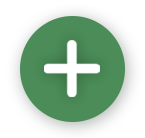
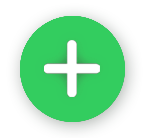
Major design updates, cleaned up a lot of view and creates, hw, chores

diff --git a/www/templates/settings/newUser.html b/www/templates/settings/newUser.html
@@ -1,44 +1,22 @@
 <ion-modal-view>
   <ion-content>
     <ion-header-bar>
-      <h1 class="title">New User</h1>
+      <h1 class="title">User Invite</h1>
       <div class="button button-clear" ng-click="modal.hide()"><i class="icon ion-close"></i></div>
     </ion-header-bar>
-    <div class="list">
-      <div class="item item-divider">
-        Name
-      </div>
+    <div class="list modal-header">
       <ion-item>
         <label class="item item-input">
-          <textarea id="new-user-name" placeholder="description"></textarea>
+          <input type="email" placeholder="John Smith">
         </label>
       </ion-item>
-      <div class="item item-divider">
-        Select Job
-      </div>
-      <ion-item class="item-input item-select">
-        <div class="input-label"></div>
-        <select>
-          <option ng-repeat="job in chores.jobs">{{job}}</option>
-        </select>
+      <ion-item>
+        <label class="item item-input">
+          <input type="email" placeholder="john.smith@email.com">
+        </label>
       </ion-item>
-      <div class="item item-divider">
-        Select Room
-      </div>
-      <ion-item class="item-input item-select">
-        <div class="input-label"></div>
-        <select>
-          <option ng-repeat="room in chores.rooms">{{room}}</option>
-        </select>
-      </ion-item>
-      <div class="item item-divider">
-        Schedule
-      </div>
-      <div class="button-bar">
-        <a ng-repeat="day in chores.days" class="button button-primary" ng-model="buttonDay" ng-click="buttonDay.clicked=!buttonDay.clicked" ng-class="buttonDay.clicked?'button-balanced':'button-stable'">{{day}}</a>
-      </div>
-      </br>
-      <button class="button button-full button-balanced" ng-click="closeModal()">Save User</button>
+
+      <button class="button button-full button-balanced" ng-click="closeModal()">Send Invite!</button>
     </div>
   </ion-content>
 </ion-modal-view>

diff --git a/www/templates/homework/index.html b/www/templates/homework/index.html
@@ -1,19 +1,27 @@
 <ion-view view-title="Homework">
   <ion-content>
-    <div ng-repeat="child in homework.children">
-      <a class="homename" ui-sref="tab.homework.assignment">
-        <ion-item class="item-avatar item-icon-right" type="item-text-wrap" ng-click="toggleGroup(group)" ng-class="{active: isGroupShown(group)}">
-          <img ng-src="img/avatar-icons/lion.png">
-          <h2 class="homename">{{child}}</h2>
-          <i class="icon ion-ios-arrow-right" ng-class="isGroupShown(group) ? 'ion-chevron-up' : 'ion-chevron-down'"></i>
-        </ion-item>
-      </a>
+    <div ng-controller="accordCtrl">
+      <ion-list>
+        <div ng-repeat="group in groups">
+          <ion-item class="item-avatar item-icon-right" type="item-text-wrap" ng-click="toggleGroup(group)" ng-class="{active: isGroupShown(group)}">
+            <img ng-src="img/avatar-icons/lion.png">
+            <p class="homename">{{group.name}}</p>
+            <i class="icon icon-accessory" ng-class="isGroupShown(group) ? 'ion-chevron-up' : 'ion-chevron-down'"></i>
+          </ion-item>
+          <ion-item class="item-accordion" ng-repeat="item in group.items" ng-show="isGroupShown(group)">
+            <a ui-sref="tab.homework.childView">
+              <p class="homename">{{item}}</p>
+              <i class="icon icon-accessory ion-chevron-right"></i>
+            </a>
+          </ion-item>
+        </div>
+      </ion-list>
     </div>
   </ion-content>
-  <div class="float-button" ng-controller="CreateHomeworkCtrl">
+  <div class="float-button" ng-controller="CreateChoresCtrl">
     <span class="height-fix">
         <a class="content" ng-click="openModal()">
-          <i class="ion-plus-circled custom-icon"></i>
+          <i class="ion-plus-circled custom-icon"> </i>
         </a>
       </span>
   </div>

diff --git a/www/css/style.css b/www/css/style.css
@@ -12,8 +12,8 @@ a{
   font-size: 70px;
   background: $warning;
   position: fixed;
-  bottom: 60px; /* Adjust to where you want it */
-  right: 25px; /* Adjust to where you want it */
+  bottom: 10vh; /* Adjust to where you want it */
+  right: 5vw; /* Adjust to where you want it */
   z-index: 9999;
 }
 
@@ -37,7 +37,7 @@ a{
 }
 
 .custom-icon {
-  color: #6cc484;
+  color: #33cd5f;
 }
 
 /* button animation*/
@@ -139,13 +139,23 @@ p.chorepg {
 
 .item-icon-right .jv-card-archive{
   font-size:30px;
-  right:-3px;
+  right:0px;
   top:0px;
 }
 .item-icon-right .jv-card-delete{
   font-size:30px;
   right:40px;
   top:0px;
+}
+.item-icon-right .jv-card-archive:hover{
+  font-size:35px;
+  cursor:pointer;
+  color:#33cd5f;
+}
+.item-icon-right .jv-card-delete:hover{
+  font-size:35px;
+  cursor:pointer;
+  color:#33cd5f;
 }
 
 .clean-link-icon{
@@ -159,4 +169,39 @@ p.chorepg {
 
 .showHide{
   display:none;
+}
+
+.circle{
+  border-radius:50%;
+	width:50px;
+	height:50px;
+  text-align:center;
+  line-height:1em;
+  padding-top:10px;
+  float:left;
+  margin-right:20px;
+}
+
+.circle>p{
+  color:#fff;
+}
+
+h2.hw-assign{
+  margin-top:1.25%;
+}
+
+.past{
+  background-color: #EE4D39;
+}
+
+.present{
+  background-color: #33cd5f;
+}
+
+.future{
+  background-color: #F0B840;
+}
+
+.modal-header{
+  padding-top:5vh;
 }

diff --git a/www/js/app.js b/www/js/app.js
@@ -100,11 +100,20 @@ angular.module('juvo', [
   })
   .state('tab.homework.view', {
     url: '/view',
+    // resolve: {
+    //   selectedTask: function($stateParams, tasks, users) {
+    //     return user
+    //       .getCurrentUser()
+    //       .then(function(user) {
+    //         return tasks.getTask(user.id, $stateParams.id)
+    //       })
+    //   },
+    // },
     templateUrl: 'templates/homework/view.html',
   })
-  .state('tab.homework.assignment', {
-    url: '/assignment',
-    templateUrl: 'templates/homework/assignment.html',
+  .state('tab.homework.childView', {
+    url: '/childView',
+    templateUrl: 'templates/homework/childView.html',
     controller: 'HomeworkCtrl'
   })
 
@@ -130,16 +139,7 @@ angular.module('juvo', [
     controller: 'TodosCtrl'
   })
   .state('tab.todos.view', {
-    url: '/:todoId',
-    resolve: {
-      selectedTask: function($stateParams, tasks, users) {
-        return user
-          .getCurrentUser()
-          .then(function(user) {
-            return tasks.getTask(user.id, $statParams.id)
-          })
-      },
-    },
+    url: '/view',
     templateUrl: 'templates/todos/view.html',
     controller: 'TodosCtrl'
   })

diff --git a/www/templates/settings/index.html b/www/templates/settings/index.html
@@ -9,14 +9,14 @@
           </button>
         </div>
       </a>
-      <a ui-sref="tab.settings.personalSettings">
+      <!-- <a ui-sref="tab.settings.personalSettings">
         <div class="item item-button-right">
           Switch Account
           <button class="button button-clear">
             <i class="icon ion-chevron-right"></i>
           </button>
         </div>
-      </a>
+      </a> -->
       <a ui-sref="tab.settings.personalSettings">
         <div class="item item-button-right">
           Personal Settings
@@ -33,7 +33,7 @@
           </button>
         </div>
       </a>
-      <a ui-sref="tab.settings.termsAndCond">
+      <!-- <a ui-sref="tab.settings.termsAndCond">
         <div class="item item-button-right">
           Terms and Conditions
           <button class="button button-clear">
@@ -48,7 +48,7 @@
             <i class="icon ion-chevron-right"></i>
           </button>
         </div>
-      </a>
+      </a> -->
     </ion-list>
   </ion-content>
   <ion-footer-bar style="padding-bottom:15%;" ng-controller="LogoutCtrl">

diff --git a/www/templates/homework/create.html b/www/templates/homework/create.html
@@ -10,13 +10,10 @@
       </div>
         <ion-checkbox ng-repeat="child in homework.children" class="checkbox-balanced">{{child}}</ion-checkbox>
       <div class="item item-divider">
-        Select Subject
+        Assignment Title
       </div>
-      <ion-item class="item-input item-select">
-        <div class="input-label"></div>
-        <select>
-            <option ng-repeat="subject in homework.subject">{{subject}}</option>
-        </select>
+      <ion-item class="item-input">
+        <input type="text" placeholder="Math Ch. 12" />
       </ion-item>
       <div class="item item-divider">
         Due Date
@@ -29,9 +26,8 @@
         Description
       </div>
       <ion-item>
-        <label class="item item-input">
-          <textarea id="assignment-desc" placeholder="description">
-          </textarea>
+        <label class="item-input">
+          <textarea placeholder="Optional"></textarea>
         </label>
       </ion-item>
       <button class="button button-full button-balanced" ng-click="closeModal()">Create Assignment</button>

diff --git a/www/templates/homework/childView.html b/www/templates/homework/childView.html
@@ -1,4 +1,4 @@
-<ion-view name="homeworkAssignment" view-title="Haley's Homework">
+<ion-view name="childsHomework" view-title="Haley's Homework">
   <ion-content>
     <div>
       <ion-list>
@@ -8,8 +8,10 @@
               <i class="icon icon-accessory" ng-class="isGroupShown(group) ? 'ion-chevron-up' : 'ion-chevron-down'"></i>
           </ion-item>
           <a ui-sref="tab.homework.view"  ng-repeat="assignment in homework.group">
-            <ion-item  style="padding-left:40px;" class="item-accordion" ng-show="isGroupShown(group)">
-                  {{assignment}}
+            <ion-item style="padding-left:40px;" class="item-avatar item-accordion item-icon-right" ng-show="isGroupShown(group)">
+              <div class="circle past"><p>Mar</p><p>11</p></div>
+              <h2 class="hw-assign">{{assignment}}</h2>
+              <i class="icon icon-accessory ion-chevron-right"></i>
             </ion-item>
           </a>
         </div>

diff --git a/www/templates/homework/view.html b/www/templates/homework/view.html
@@ -13,15 +13,7 @@
         <h1 class="chorepg">Details:</h1>
         <p class="chorepg">History of Historic Things page 100, Reflection Quiz section 4, questions 3-9</p>
       </ion-item>
-      <li class="item item-toggle">
-        Finished
-        <label class="toggle toggle-calm">
-          <input type="checkbox">
-          <div class="track">
-            <div class="handle"></div>
-          </div>
-        </label>
-      </li>
+      <ion-checkbox class="checkbox-calm">Finished</ion-checkbox>
     </div>
   </ion-content>
 </ion-view>

diff --git a/www/js/controllers.js b/www/js/controllers.js
@@ -205,11 +205,13 @@ angular.module('juvo.controllers', ['users'])
   }).then(function(modal) {
     $scope.modal = modal
   })
-  $scope.openModal = function() {
+  $scope.openModal = function(taskId) {
     $scope.modal.show()
+    $scope.taskId = taskId
   }
-  $scope.closeModal = function() {
+  $scope.closeModal = function(taskId) {
     $scope.modal.hide();
+    $scope.taskId = taskId
   }
   $scope.modalLogout = function() {
     $scope.modal.hide();

diff --git a/www/templates/settings/editUsers.html b/www/templates/settings/editUsers.html
@@ -10,6 +10,6 @@
     </div>
   </ion-content>
   <ion-footer-bar style="padding-bottom:15%;" ng-controller="SettingsUserCtrl">
-    <button class="button button-full button-balanced" ng-click="openModal()">Add User</button>
+    <button class="button button-full button-balanced" ng-click="openModal()">Invite to Your Family</button>
   </ion-footer-bar>
 </ion-view>

diff --git a/www/templates/chores/view.html b/www/templates/chores/view.html
@@ -17,7 +17,6 @@
         </p>
       </ion-item>
         <ion-checkbox class="checkbox-calm">Finished</ion-checkbox>
-      </li>
     </div>
   </ion-content>
 </ion-view>
